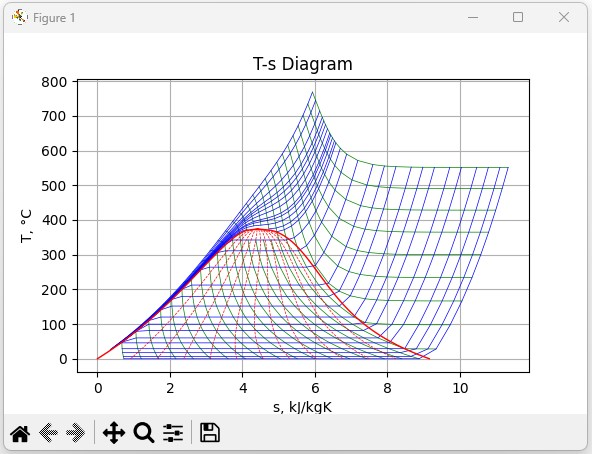
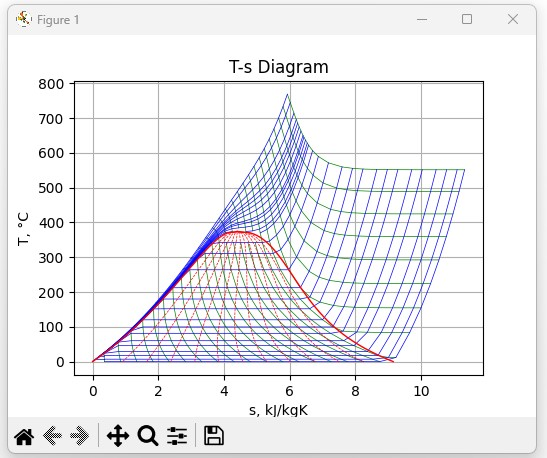
seuif97 in Rust

Changed region(s): [[0.0, 0.0, 0.9945, 1.0]]

diff --git a/src/common/constant.rs b/src/common/constant.rs
@@ -10,6 +10,7 @@ pub const INVALID_H: i32 = -2103;
 pub const INVALID_PT: i32 = -2201;
 pub const INVALID_HS: i32 = -2202;
 
+///  FLOAT_ERROR for float value with `==`
 pub const FLOAT_ERROR: f64 = 1.0e-6;
 
 /// constants  
@@ -34,7 +35,7 @@ pub const ht_water: f64 = 0.611783; // the triple point
 // T=623.15 region (1,3)
 pub const Ps_623: f64 = 16.5291642526045; // P_MIN3 Ps_623 = _PSat_T(623.15)  P Saturation at 623.15 K, boundary region 1-3
 
-pub const P_MIN: f64 = 0.000611212677444; // P_MIN = _PSat_T(273.15)  Minimum pressure
+pub const P_MIN: f64 = 0.000611212677444; // P_MIN = _PSat_T(273.15)  Mininum pressure
 pub const V_MAX: f64 = 1.0E+10;
 pub const V_MIN: f64 = 0.00095;
 pub const H_MAX: f64 = 7376.99;
@@ -48,7 +49,7 @@ pub const T01: f64 = 1386.0;
 pub const T_MAX1: f64 = 623.15;
 pub const T_MIN1: f64 = 273.15;
 pub const P_MAX1: f64 = 100.00;
-pub const P_MIN1: f64 = 0.000611212677444; // t=273.15
+pub const P_MIN1: f64 = 0.000611212677444; // T=273.15
 
 /// Region2  boundary constants
 pub const T02: f64 = 540.0;
@@ -82,4 +83,4 @@ pub const P05: f64 = 1.0;
 pub const T_MAX5: f64 = 2273.15;
 pub const T_MIN5: f64 = 1073.15;
 pub const P_MAX5: f64 = 50.0;
-pub const P_MIN5: f64 = 0.000611212677444; //1.0E-8;
+pub const P_MIN5: f64 = 0.000611212677444; 

diff --git a/demo_using_lib/Diagram_T-S.py b/demo_using_lib/Diagram_T-S.py
@@ -14,7 +14,7 @@ Email: cmh@seu.edu.cn
 """
 import numpy as np
 import matplotlib.pyplot as plt
-from seuif97 import ph, tx
+from seuif97 import ph, tx, px
 
 OT = 1
 OS = 5
@@ -29,17 +29,26 @@ plt.ylabel(title[yAxis])
 plt.grid()
 
 Pt = 611.657e-6
-isoh = np.linspace(200, 3600, 27)
-isop = np.array([Pt, 0.001, 0.002,0.004,0.01, 0.02, 0.05, 0.1, 0.2, 0.5,
-                 1.0, 2.0, 5.0, 10.0,15, 20.0, 22, 25, 28, 30, 35, 40, 45, 50.0,60, 80,100.0])
+isoh = np.linspace(100, 3600, 27)
+isop = np.array([Pt, 0.001, 0.002, 0.004, 0.01, 0.02, 0.05, 0.1, 0.2, 0.5,
+                 1.0, 2.0, 5.0, 10.0, 15, 20.0, 22, 25, 28, 30, 35, 40, 45, 50.0, 60, 80, 100.0])
 for h in isoh:
     T = np.array([ph(p, h, OT) for p in isop])
     S = np.array([ph(p, h, OS) for p in isop])
     plt.plot(S, T, 'g', lw=0.5)
+
 for p in isop:
     T = np.array([ph(p, h, OT) for h in isoh])
     S = np.array([ph(p, h, OS) for h in isoh])
     plt.plot(S, T, 'b', lw=0.5)
+
+# saturate water to wet steam
+for p in [0.001, 0.002]:
+    s = ph(p, 100, OS)
+    t = ph(p, 100, OT)
+    s_sat_water = px(p, 0.0, OS)
+    t_sat_water = px(p, 0.0, OT)
+    plt.plot([s_sat_water, s], [t_sat_water, t], 'b', lw=0.5)
 
 tc = 647.096 - 273.15
 T = np.linspace(0.11, tc, 100)

diff --git a/src/algo/root.rs b/src/algo/root.rs
@@ -8,10 +8,10 @@ pub const I_MAX: i32 = 100;
 
 ///  rtsec1 :fun(x,con_var2)： the result is the first x：x，x={x1,x2}
 ///  the second con_var2 in constant
-///  * fr: the value of fun(x,con_var2)
+///  *  fr: the value of fun(x,con_var2)
 ///  *  fl: fr-fun(x1,con_var2)
 ///  *  f: fr-fun(x2,con_var2)
-///  * rts：the solution of x
+///  *  rts：the solution of x
 pub fn rtsec1(
     fun: IF97_EQ, con_var2: f64, fr: f64, x1: f64, x2: f64, mut fl: f64, mut f: f64, xacc: f64, i_max: i32,
 ) -> f64 {
@@ -51,12 +51,12 @@ pub fn rtsec1(
     return rts;
 }
 
-///  rtsec2 :fun(con_var1，x),the result is the second x，x={x1,x2}
-///     the first con_var1 is constant
-///     fr: the value of func(con_var1,x)
-///     fl: fr-func(con_var1,x1)
-///     f: fr-func(con_var1,x2)
-///     rts：the solution of x
+/// rtsec2 :fun(con_var1，x),the result is the second x，x={x1,x2}
+///  * the first con_var1 is constant
+///  *  fr: the value of func(con_var1,x)
+///  *  fl: fr-func(con_var1,x1)
+///  *  f: fr-func(con_var1,x2)
+///  *  rts：the solution of x
 pub fn rtsec2(
     fun: IF97_EQ, con_var1: f64, fr: f64, x1: f64, x2: f64, mut fl: f64, mut f: f64, xacc: f64, i_max: i32,
 ) -> f64 {

diff --git a/src/common/propertry_id.rs b/src/common/propertry_id.rs
@@ -3,12 +3,11 @@
 //! 1. The Basic propertry in IAPWS-IF97 Equation - p,t,v,d,h,s,cp,cv,w
 //!    * region1_pT.rs, region2_pT.rs, region5_pT.rs
 //!    * region3_Td.rs
-//! 2. Transport propertry
-//!    * common::transport_further.rs
-//! 3. The extended propertry
+//! 2. The extended propertry
 //!    * region1_pT_ext.rs, region2_pT_ext.rs, region5_pT_ext.rs
 //!    * region3_Td_ext.rs
-//!
+//! 3. Transport propertry
+//!    * common::transport_further.rs
 
 /// 0. p - Pressure  MPa   
 pub const OP: i32 = 0;

diff --git a/demo_using_lib/Diagram_H-S.py b/demo_using_lib/Diagram_H-S.py
@@ -29,9 +29,10 @@ plt.ylim(0, 4300)
 plt.grid()
 
 Pt = 611.657e-6
-# Isotherm lines to plot, values in ºC
 isot = np.array([0, 50, 100, 200, 300, 400, 500, 600, 700, 800])
 isop = np.array([Pt, 0.001, 0.01, 0.1, 1, 10, 20, 50, 100])
+
+# Isotherm lines to plot, values in ºC
 for t in isot:
     h = np.array([pt2h(p, t) for p in isop])
     s = np.array([pt2s(p, t) for p in isop])

diff --git a/src/common/propertry_pairs.rs b/src/common/propertry_pairs.rs
@@ -1,6 +1,7 @@
 //! The computing function of basic and extended Thermodynamic  Properties  
 //! # Input pairs:
-//! *  (p,t) (p,h) (p,s) (h,s)
+//! *  (p,t) (p,h) (p,s)
+//! *  (h,s)
 //! *  (p,v),(t,v),(t,h),(t,s)
 //!   
 //! # The Basic Thermodynamic Properties

diff --git a/README.md b/README.md
@@ -184,7 +184,7 @@ print(f"p={p}, t={t} h={h:.3f} s={s:.3f}")
 
 **T-S Diagram**
 
-* code: [./demo_using_lib/Diagram_T-S.py](./demo_using_lib/Diagram_T-S.py)
+* [./demo_using_lib/Diagram_T-S.py](./demo_using_lib/Diagram_T-S.py)
 
 ![T-S Diagram](./img/T-S.jpg)
    
